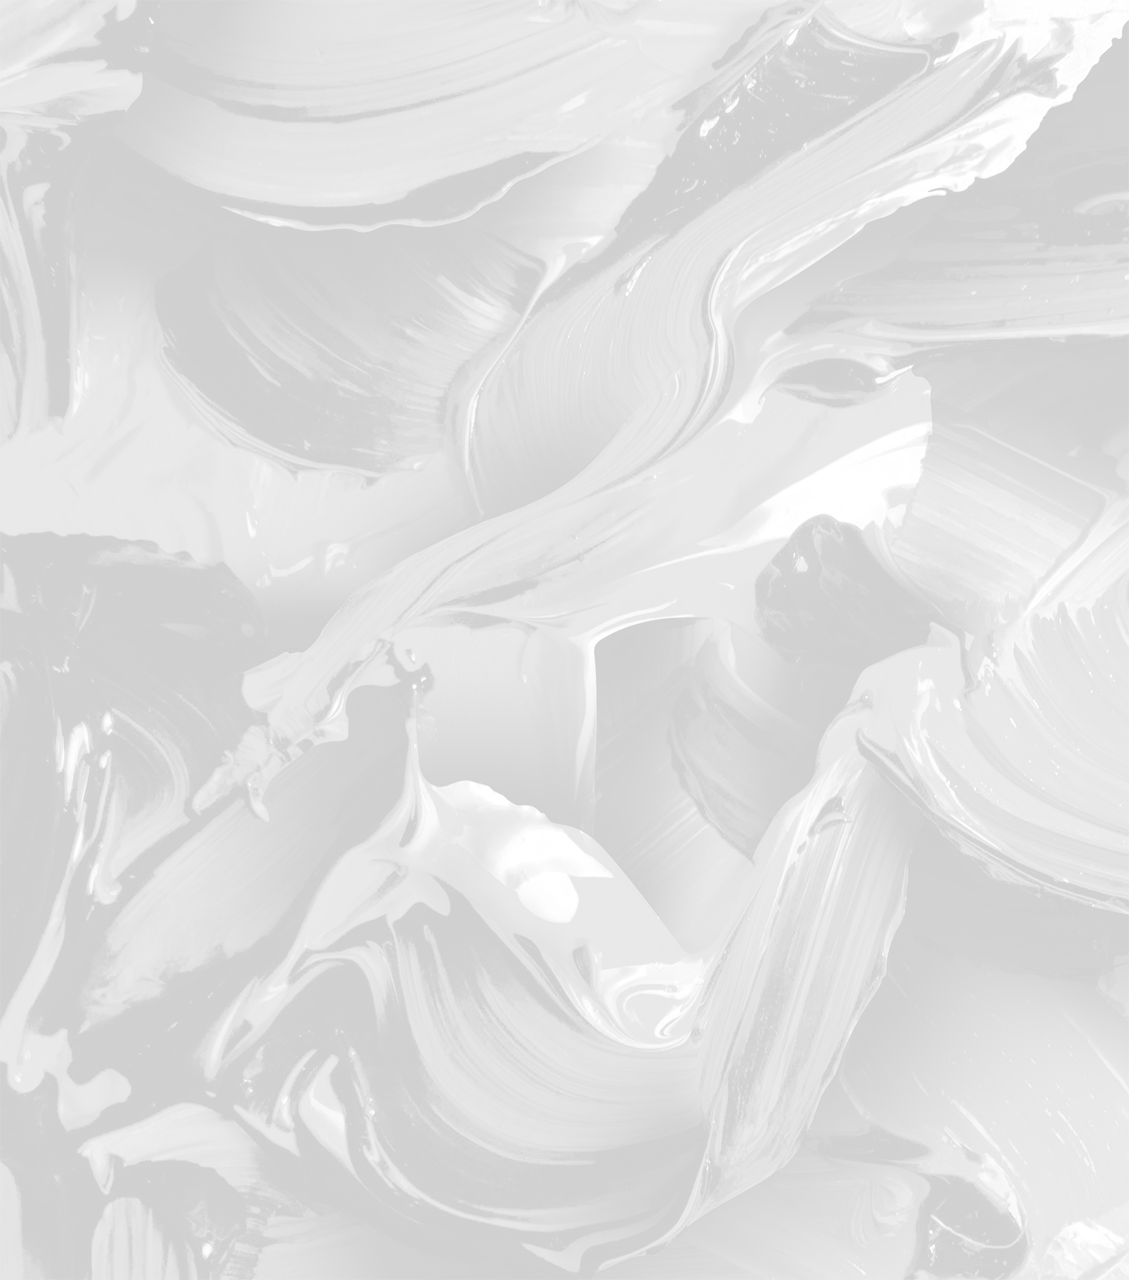
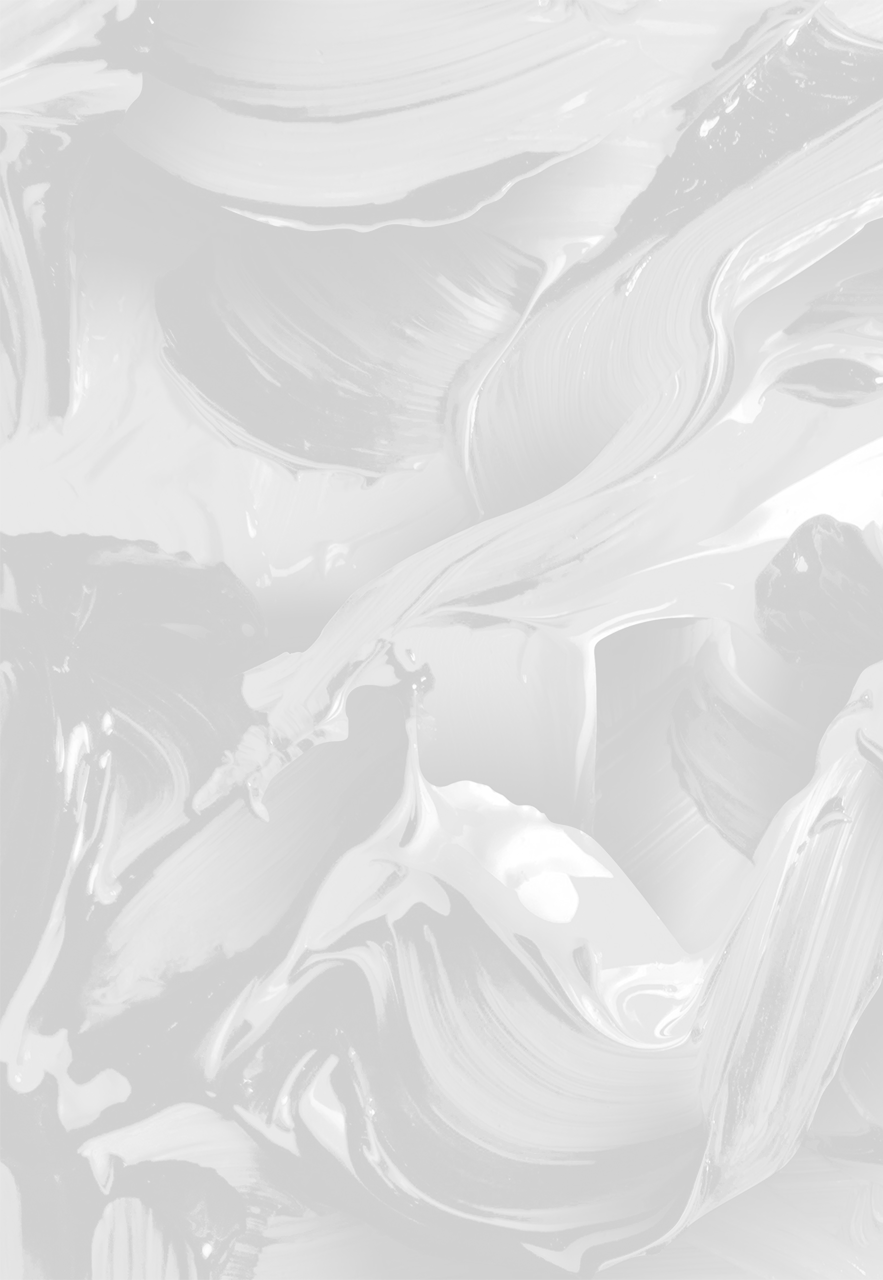
add image

diff --git a/style.css b/style.css
@@ -694,16 +694,16 @@ body {
   }
   .slider-section {
     position: relative;
-    /* overflow: hidden; */
   }
   .slider-section::after {
     content: "";
     position: absolute;
-    right: -248px;
+    right: 0;
     top: -313px;
-    width: 1129px;
+    width: 881px;
     z-index: -1;
     height: 1280px;
+    background-repeat: no-repeat;
     background-image: url("/assets/slider-bg.png");
   }
   .slide {

diff --git a/index.js b/index.js
@@ -17,7 +17,6 @@ menuBtn.addEventListener("click", (e) => {
 
 sliderArr.forEach((slider) => {
   slider.scrollLeft = (pictureSlide[0].clientWidth + 34) * pictureSlide.length;
-
   slider.addEventListener("mousedown", sliderMouseDown);
   let startX = 0;
   let scrollLeft;
